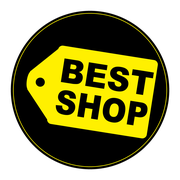
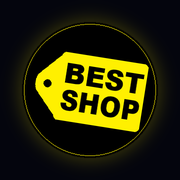
Make the site an installable app (PWA)
- Web app manifest with app icons, shortcuts (Imported, Products, Offers)
- Service worker: offline pages and product data, cached photos
- Install button (Android prompt, iPhone Add-to-Home-Screen steps)
- Safe-area spacing for notched phones when opened as an app

diff --git a/script.js b/script.js
@@ -120,6 +120,12 @@
       "basket.cliqName": "Account name",
       "basket.copy": "Copy",
       "basket.copied": "Copied",
+      "app.install": "Install the app",
+      "app.iosTitle": "Add Best Shop to your Home Screen",
+      "app.ios1": "Tap the Share button at the bottom of Safari",
+      "app.ios2": "Choose “Add to Home Screen”",
+      "app.ios3": "Tap “Add” — Best Shop opens like an app",
+      "app.dismiss": "Not now",
       "basket.send": "Send order on WhatsApp",
       "basket.clear": "Empty basket",
       "basket.required": "Please add your name and delivery address.",
@@ -245,6 +251,12 @@
       "basket.cliqName": "اسم الحساب",
       "basket.copy": "نسخ",
       "basket.copied": "تم النسخ",
+      "app.install": "ثبّت التطبيق",
+      "app.iosTitle": "أضف بست شوب إلى الشاشة الرئيسية",
+      "app.ios1": "اضغط زر المشاركة أسفل متصفح سفاري",
+      "app.ios2": "اختر «إضافة إلى الشاشة الرئيسية»",
+      "app.ios3": "اضغط «إضافة» — وسيفتح بست شوب كتطبيق",
+      "app.dismiss": "ليس الآن",
       "basket.send": "أرسل الطلب عبر واتساب",
       "basket.clear": "إفراغ السلة",
       "basket.required": "يرجى إدخال الاسم وعنوان التوصيل.",
@@ -820,6 +832,58 @@
   }));
 
   $("#year").textContent = new Date().getFullYear();
+
+  // ---------- Installable app ----------
+  if ("serviceWorker" in navigator && (location.protocol === "https:" || location.hostname === "localhost")) {
+    window.addEventListener("load", () => navigator.serviceWorker.register("sw.js").catch(() => {}));
+  }
+  const standalone = window.matchMedia("(display-mode: standalone)").matches || navigator.standalone === true;
+  const isIOS = /iphone|ipad|ipod/i.test(navigator.userAgent) || (navigator.platform === "MacIntel" && navigator.maxTouchPoints > 1);
+  let installEvent = null;
+  let dismissed = false;
+  try { dismissed = localStorage.getItem("bs-install-dismissed") === "1"; } catch (e) {}
+
+  function showInstall() {
+    if (standalone || dismissed || $("#installBtn")) return;
+    document.body.insertAdjacentHTML("beforeend", `
+      <div class="install" id="installBar">
+        <button class="install__btn" id="installBtn" type="button">
+          <img src="img/icon-192.png" alt="" width="28" height="28"><span data-i18n="app.install">${t("app.install")}</span>
+        </button>
+        <button class="install__x" id="installX" type="button" aria-label="${esc(t("app.dismiss"))}"><i data-lucide="x" aria-hidden="true"></i></button>
+      </div>`);
+    if (window.lucide) window.lucide.createIcons();
+  }
+
+  window.addEventListener("beforeinstallprompt", (e) => { e.preventDefault(); installEvent = e; showInstall(); });
+  window.addEventListener("appinstalled", () => { const b = $("#installBar"); if (b) b.remove(); });
+  if (isIOS && !standalone) showInstall();
+
+  document.addEventListener("click", async (e) => {
+    if (e.target.closest("#installX")) {
+      $("#installBar").remove();
+      try { localStorage.setItem("bs-install-dismissed", "1"); } catch (err) {}
+      return;
+    }
+    if (!e.target.closest("#installBtn")) return;
+    if (installEvent) {
+      installEvent.prompt();
+      const choice = await installEvent.userChoice;
+      if (choice.outcome === "accepted") $("#installBar").remove();
+      installEvent = null;
+    } else {
+      openViewer(`
+        <div class="ios-install">
+          <img src="img/icon-192.png" alt="" width="72" height="72">
+          <h2>${t("app.iosTitle")}</h2>
+          <ol>
+            <li><i data-lucide="share" aria-hidden="true"></i><span>${t("app.ios1")}</span></li>
+            <li><i data-lucide="square-plus" aria-hidden="true"></i><span>${t("app.ios2")}</span></li>
+            <li><i data-lucide="check" aria-hidden="true"></i><span>${t("app.ios3")}</span></li>
+          </ol>
+        </div>`);
+    }
+  });
 
   // Shared helpers for products.js
   window.BS = {

diff --git a/sw.js b/sw.js
@@ -1,0 +1,77 @@
+/* Best Shop app service worker
+   - Pages and product data: network first, cached copy when offline
+   - App files (CSS, JS, logos, posters): served from cache, refreshed in the background
+   - Product photos from Talabat: cached as customers see them (up to 400)
+   Bump VERSION whenever the site changes so phones pick up the new files. */
+const VERSION = "bs-v1";
+const SHELL = `${VERSION}-shell`;
+const PHOTOS = `${VERSION}-photos`;
+const PHOTO_LIMIT = 400;
+
+const SHELL_FILES = [
+  "./", "./index.html", "./products.html", "./styles.css", "./script.js", "./space.js", "./products.js",
+  "./config.js", "./data/home.json", "./manifest.webmanifest",
+  "./img/logo.png", "./img/logo-512.png", "./img/favicon.png", "./img/icon-192.png",
+  "./img/offers/mandi-rice.jpg", "./img/offers/leeza-oil.jpg", "./img/offers/tayba-juice.jpg", "./img/offers/tiger-rice.jpg",
+];
+
+self.addEventListener("install", (e) => {
+  e.waitUntil(caches.open(SHELL).then((c) => c.addAll(SHELL_FILES)).then(() => self.skipWaiting()));
+});
+
+self.addEventListener("activate", (e) => {
+  e.waitUntil(
+    caches.keys()
+      .then((keys) => Promise.all(keys.filter((k) => !k.startsWith(VERSION)).map((k) => caches.delete(k))))
+      .then(() => self.clients.claim())
+  );
+});
+
+async function networkFirst(req) {
+  const cache = await caches.open(SHELL);
+  try {
+    const res = await fetch(req);
+    if (res.ok) cache.put(req, res.clone());
+    return res;
+  } catch (err) {
+    return (await cache.match(req, { ignoreSearch: true })) || (await cache.match("./index.html"));
+  }
+}
+
+async function staleWhileRevalidate(req, cacheName) {
+  const cache = await caches.open(cacheName);
+  const cached = await cache.match(req);
+  const fresh = fetch(req).then((res) => {
+    if (res.ok || res.type === "opaque") cache.put(req, res.clone());
+    return res;
+  }).catch(() => cached);
+  return cached || fresh;
+}
+
+async function photo(req) {
+  const cache = await caches.open(PHOTOS);
+  const cached = await cache.match(req);
+  if (cached) return cached;
+  const res = await fetch(req);
+  if (res.ok || res.type === "opaque") {
+    await cache.put(req, res.clone());
+    const keys = await cache.keys();
+    if (keys.length > PHOTO_LIMIT) await Promise.all(keys.slice(0, keys.length - PHOTO_LIMIT).map((k) => cache.delete(k)));
+  }
+  return res;
+}
+
+self.addEventListener("fetch", (e) => {
+  const req = e.request;
+  if (req.method !== "GET") return;
+  const url = new URL(req.url);
+
+  if (url.hostname === "talabat.dhmedia.io") { e.respondWith(photo(req)); return; }
+  if (/fonts\.(googleapis|gstatic)\.com$|cdn\.jsdelivr\.net$/.test(url.hostname)) {
+    e.respondWith(staleWhileRevalidate(req, SHELL)); return;
+  }
+  if (url.origin !== self.location.origin) return;       // maps, WhatsApp, etc. go straight to the network
+
+  if (req.mode === "navigate" || url.pathname.endsWith(".json")) { e.respondWith(networkFirst(req)); return; }
+  e.respondWith(staleWhileRevalidate(req, SHELL));
+});

diff --git a/styles.css b/styles.css
@@ -732,3 +732,38 @@ html[dir="rtl"] .drawer[open] { animation-name: drawer-in-rtl; }
   margin-inline-start: auto; min-height: 36px; padding: 0 14px; border-radius: 999px; border: 0;
   background: var(--cyan); color: #04202a; font: 800 .82rem var(--font);
 }
+
+/* ============ Installable app ============ */
+.install {
+  position: fixed; bottom: calc(22px + env(safe-area-inset-bottom, 0px)); inset-inline-start: 16px; z-index: 61;
+  display: flex; align-items: center; gap: 4px; padding: 4px; border-radius: 999px;
+  background: rgba(10, 12, 32, .9); border: 1px solid rgba(139, 92, 246, .6);
+  backdrop-filter: blur(10px); -webkit-backdrop-filter: blur(10px); box-shadow: 0 0 26px rgba(139, 92, 246, .45);
+  animation: install-in .5s var(--ease) both .8s;
+}
+@keyframes install-in { from { opacity: 0; transform: translateY(20px); } }
+.install__btn {
+  display: inline-flex; align-items: center; gap: 8px; min-height: 44px; padding: 0 16px 0 8px; border: 0; border-radius: 999px;
+  background: linear-gradient(90deg, var(--violet), var(--magenta)); color: #fff; font: 800 .92rem var(--font);
+}
+.install__btn img { width: 28px; height: 28px; border-radius: 8px; }
+.install__x { width: 44px; height: 44px; display: grid; place-items: center; border: 0; border-radius: 50%; background: none; color: var(--muted); }
+.install__x:hover { color: #fff; }
+.ios-install { display: grid; justify-items: center; text-align: center; gap: 12px; padding-block: 8px 12px; }
+.ios-install img { border-radius: 18px; box-shadow: 0 0 30px rgba(255, 240, 0, .4); }
+.ios-install h2 { font-size: 1.4rem; margin: 0; }
+.ios-install ol { list-style: none; padding: 0; margin: 0; display: grid; gap: 10px; text-align: start; }
+.ios-install li { display: flex; align-items: center; gap: 12px; font-weight: 600; }
+.ios-install li svg.lucide { width: 38px; height: 38px; padding: 9px; border-radius: 50%; background: var(--yellow-soft); color: var(--yellow); border: 1px solid rgba(255, 240, 0, .4); }
+
+/* Safe areas when opened as an installed app (notch / home bar) */
+.wa-float { bottom: calc(22px + env(safe-area-inset-bottom, 0px)); }
+.basket-fab { bottom: calc(92px + env(safe-area-inset-bottom, 0px)); }
+.header { padding-top: env(safe-area-inset-top, 0px); height: calc(var(--header-h) + env(safe-area-inset-top, 0px)); }
+@media (display-mode: standalone) {
+  .topbar { display: none; }
+}
+@media (max-width: 600px) {
+  .install { bottom: calc(24px + env(safe-area-inset-bottom, 0px)); }
+  .install__btn { font-size: .85rem; }
+}

diff --git a/index.html b/index.html
@@ -2,7 +2,7 @@
 <html lang="en" dir="ltr">
 <head>
   <meta charset="utf-8">
-  <meta name="viewport" content="width=device-width, initial-scale=1">
+  <meta name="viewport" content="width=device-width, initial-scale=1, viewport-fit=cover">
   <title>Best Shop — Imported Favorites from the USA & Europe | Al-Gardens, Amman</title>
   <meta name="description" content="Best Shop supermarket in Al-Gardens, Amman: hard-to-find imported products from the USA and Europe, fresh meat and chicken, cheeses and daily essentials at the best price. Open until 2 AM. Delivery available.">
   <meta name="theme-color" content="#04050d">
@@ -12,6 +12,11 @@
   <meta property="og:image" content="img/logo-square.png">
   <link rel="icon" href="img/favicon.png" type="image/png">
   <link rel="apple-touch-icon" href="img/apple-touch-icon.png">
+  <link rel="manifest" href="manifest.webmanifest">
+  <meta name="mobile-web-app-capable" content="yes">
+  <meta name="apple-mobile-web-app-capable" content="yes">
+  <meta name="apple-mobile-web-app-status-bar-style" content="black-translucent">
+  <meta name="apple-mobile-web-app-title" content="Best Shop">
   <link rel="preconnect" href="https://fonts.googleapis.com">
   <link rel="preconnect" href="https://fonts.gstatic.com" crossorigin>
   <link rel="preconnect" href="https://talabat.dhmedia.io">

diff --git a/products.html b/products.html
@@ -2,13 +2,18 @@
 <html lang="en" dir="ltr">
 <head>
   <meta charset="utf-8">
-  <meta name="viewport" content="width=device-width, initial-scale=1">
+  <meta name="viewport" content="width=device-width, initial-scale=1, viewport-fit=cover">
   <title>All Products — Best Shop, Al-Gardens, Amman</title>
   <meta name="description" content="Browse 4,000+ products at Best Shop supermarket, including imported favorites from the USA and Europe. Order on WhatsApp or Talabat.">
   <meta name="theme-color" content="#04050d">
   <meta name="robots" content="noindex, nofollow">
   <link rel="icon" href="img/favicon.png" type="image/png">
   <link rel="apple-touch-icon" href="img/apple-touch-icon.png">
+  <link rel="manifest" href="manifest.webmanifest">
+  <meta name="mobile-web-app-capable" content="yes">
+  <meta name="apple-mobile-web-app-capable" content="yes">
+  <meta name="apple-mobile-web-app-status-bar-style" content="black-translucent">
+  <meta name="apple-mobile-web-app-title" content="Best Shop">
   <link rel="preconnect" href="https://fonts.googleapis.com">
   <link rel="preconnect" href="https://fonts.gstatic.com" crossorigin>
   <link rel="preconnect" href="https://talabat.dhmedia.io">

diff --git a/tools/make_logo.py b/tools/make_logo.py
@@ -43,3 +43,24 @@ if __name__ == "__main__":
     badge.resize((180, 180), Image.LANCZOS).save("img/apple-touch-icon.png", optimize=True)
     badge.resize((64, 64), Image.LANCZOS).save("img/favicon.png", optimize=True)
     print("ok")
+
+
+def app_icon(size, logo_ratio):
+    """Square app icon: the round logo centered on the deep-space background."""
+    bg = Image.new("RGBA", (size, size), (4, 5, 13, 255))
+    glow = Image.new("RGBA", (size, size), (0, 0, 0, 0))
+    ImageDraw.Draw(glow).ellipse([size * .08, size * .08, size * .92, size * .92], fill=(255, 240, 0, 60))
+    from PIL import ImageFilter
+    bg.alpha_composite(glow.filter(ImageFilter.GaussianBlur(size * .06)))
+    logo = draw(int(size * logo_ratio), background=False)
+    off = (size - logo.width) // 2
+    bg.alpha_composite(logo, (off, off))
+    return bg.convert("RGB")
+
+
+def make_app_icons():
+    app_icon(192, .86).save("img/icon-192.png", optimize=True)
+    app_icon(512, .86).save("img/icon-512.png", optimize=True)
+    # Maskable: keep the logo inside the 80% safe zone Android may crop to a circle/squircle
+    app_icon(512, .66).save("img/icon-maskable-512.png", optimize=True)
+    app_icon(180, .86).save("img/apple-touch-icon.png", optimize=True)
